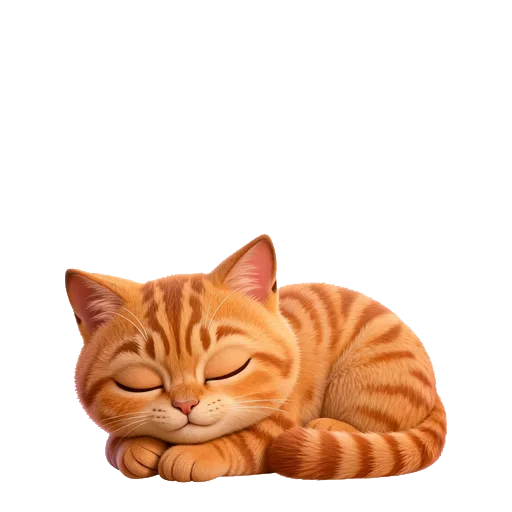
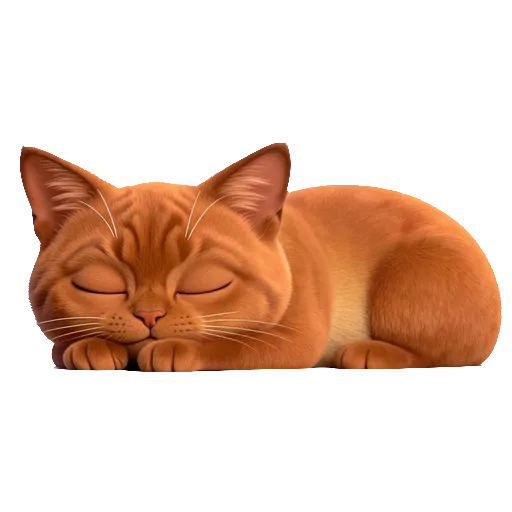
updated all cats artwork with superdesign now

diff --git a/app/ui/xenocats/cat-art.ts b/app/ui/xenocats/cat-art.ts
@@ -5,12 +5,13 @@
 //
 // The Canva plan, prompts and keying script live outside the repo, in the
 // Canva reference folder (cats/plan.json, cats/key.js); add a pose here once its
-// file is in public/xenocats/cats/. Hypno Rex's eyes-first entrance fades in
-// `.xenocat-eyes` before the body, so its artwork will need an eyes overlay.
+// file is in public/xenocats/cats/. A cat whose entrance stages its eyes before
+// its body (Hypno Rex, `.xenocat-eyes`) also needs `eyes`: an overlay of the awake
+// artwork holding only the eyes, drawn over it as their own layer.
 
 export type Pose = 'awake' | 'asleep';
 
-export const CAT_ART: Readonly<Record<string, Partial<Record<Pose, string>>>> = {
+export const CAT_ART: Readonly<Record<string, Partial<Record<Pose | 'eyes', string>>>> = {
   'void-tabby': {
     awake: '/xenocats/cats/void-tabby-awake.webp',
     asleep: '/xenocats/cats/void-tabby-asleep.webp',
@@ -79,10 +80,18 @@ export const CAT_ART: Readonly<Record<string, Partial<Record<Pose, string>>>> = 
     awake: '/xenocats/cats/smoke-bombay-awake.webp',
     asleep: '/xenocats/cats/smoke-bombay-asleep.webp',
   },
-  // Asleep still to come (and the eyes overlay above): until then the on-screen
-  // cat keeps its SVG (wholeSet); the gallery and the fight show this.
   'hypno-rex': {
     awake: '/xenocats/cats/hypno-rex-awake.webp',
+    asleep: '/xenocats/cats/hypno-rex-asleep.webp',
+    eyes: '/xenocats/cats/hypno-rex-eyes.webp',
+  },
+  'pinball-devon': {
+    awake: '/xenocats/cats/pinball-devon-awake.webp',
+    asleep: '/xenocats/cats/pinball-devon-asleep.webp',
+  },
+  'laser-ocicat': {
+    awake: '/xenocats/cats/laser-ocicat-awake.webp',
+    asleep: '/xenocats/cats/laser-ocicat-asleep.webp',
   },
 };
 
@@ -90,8 +99,13 @@ export const CAT_ART: Readonly<Record<string, Partial<Record<Pose, string>>>> = 
  * The artwork for a cat's pose, if there is any. With `wholeSet`, only when the
  * cat has artwork for both poses, so a cat never switches style between sleeping
  * and waking up (the on-screen cats do both; the gallery shows them awake only).
+ * `'eyes'` gives the cat's eyes overlay, if it has one.
  */
-export function catArt(id: string, pose: Pose, { wholeSet = false } = {}): string | undefined {
+export function catArt(
+  id: string,
+  pose: Pose | 'eyes',
+  { wholeSet = false } = {}
+): string | undefined {
   const art = CAT_ART[id];
   if (!art) return undefined;
   if (wholeSet && !(art.awake && art.asleep)) return undefined;

diff --git a/tests/unit/xenocats/cat-art.test.tsx b/tests/unit/xenocats/cat-art.test.tsx
@@ -24,8 +24,19 @@ describe('catArt', () => {
   it('gives a pose its artwork, and nothing for cats without any', () => {
     expect(catArt('void-tabby', 'awake')).toBe('/xenocats/cats/void-tabby-awake.webp');
     expect(catArt('void-tabby', 'asleep')).toBe('/xenocats/cats/void-tabby-asleep.webp');
-    const withoutArt = CAT_TYPES.find((type) => !CAT_ART[type.id])!;
-    expect(catArt(withoutArt.id, 'awake')).toBeUndefined();
+    expect(catArt('no-such-cat', 'awake')).toBeUndefined();
+  });
+
+  it('gives every cat on the roster artwork for both poses', () => {
+    for (const type of CAT_TYPES) {
+      expect(catArt(type.id, 'awake', { wholeSet: true }), type.id).toBeDefined();
+    }
+  });
+
+  it('gives an eyes-first cat an eyes overlay', () => {
+    for (const type of CAT_TYPES.filter((t) => t.entrance === 'eyes-first')) {
+      expect(catArt(type.id, 'eyes', { wholeSet: true }), type.id).toBeDefined();
+    }
   });
 
   it('with wholeSet, gives a cat with both poses its artwork', () => {
@@ -60,6 +71,30 @@ describe('CatSprite with artwork', () => {
       expect(img.getAttribute('src')).toBe('/cat.webp');
       expect(img.getAttribute('width')).toBe('64');
       expect(img.classList.contains('xenocat-art-glow')).toBe(pose === 'awake');
+      cleanup();
+    }
+  });
+
+  it('draws the eyes overlay over the body as its own layer, only while awake', () => {
+    for (const pose of ['awake', 'asleep'] as const) {
+      const { container } = render(
+        <CatSprite
+          palette={type.palette}
+          look={type.look}
+          pose={pose}
+          art="/cat.webp"
+          eyes="/eyes.webp"
+        />
+      );
+      const eyes = container.querySelector('.xenocat-body > img.xenocat-eyes');
+      if (pose === 'awake') {
+        expect(eyes!.getAttribute('src')).toBe('/eyes.webp');
+        // The body image stays outside `.xenocat-eyes`, so the staged entrance
+        // can fade it in separately.
+        expect(container.querySelector('.xenocat-body > img:not(.xenocat-eyes)')).not.toBeNull();
+      } else {
+        expect(eyes).toBeNull();
+      }
       cleanup();
     }
   });

diff --git a/app/ui/xenocats/cat-sprite.tsx b/app/ui/xenocats/cat-sprite.tsx
@@ -18,6 +18,7 @@ export function CatSprite({
   pose,
   size = 72,
   art,
+  eyes,
   still = false,
 }: {
   palette: CatPalette;
@@ -26,6 +27,11 @@ export function CatSprite({
   size?: number;
   /** Rendered artwork for this pose (cat-art.ts), drawn instead of the SVG. */
   art?: string;
+  /**
+   * An overlay of the awake artwork holding only its eyes (cat-art.ts), drawn over
+   * it as `.xenocat-eyes` so an entrance can stage the eyes apart from the body.
+   */
+  eyes?: string;
   /**
    * The glow held steady instead of pulsing: for a page of many sprites at once
    * (the /cats roster), where every pulse would be redrawn on every frame.
@@ -36,7 +42,7 @@ export function CatSprite({
     // `.xenocat-body` keeps the breathing and staged-entrance hooks; awake, the
     // cat's glow colour pulses around it in place of the SVG's glowing parts.
     return (
-      <span className="xenocat-body block" style={{ width: size, height: size }}>
+      <span className="xenocat-body relative block" style={{ width: size, height: size }}>
         {/* eslint-disable-next-line @next/next/no-img-element -- a sprite drawn at a fixed small size, not a content image */}
         <img
           src={art}
@@ -49,6 +55,17 @@ export function CatSprite({
           }
           style={{ '--xenocat-glow': palette.glow } as React.CSSProperties}
         />
+        {eyes && pose === 'awake' && (
+          // eslint-disable-next-line @next/next/no-img-element -- see above
+          <img
+            src={eyes}
+            alt=""
+            width={size}
+            height={size}
+            draggable={false}
+            className="xenocat-eyes pointer-events-none absolute inset-0"
+          />
+        )}
       </span>
     );
   }

diff --git a/tests/e2e/cats.spec.ts b/tests/e2e/cats.spec.ts
@@ -423,6 +423,22 @@ test('Hypno Rex spirals the cursor in to the middle of the screen', async ({ pag
     .toBeLessThan(Math.max(startDistance * 0.3, 20));
 });
 
+test('Hypno Rex arrives in its artwork, with its eyes as a layer of their own', async ({
+  page,
+}) => {
+  await openCats(page);
+  await summon(page, 'hypno-rex');
+  const cat = page.locator('[data-cat-type="hypno-rex"]');
+  await expect(cat.locator('img:not(.xenocat-eyes)')).toHaveAttribute(
+    'src',
+    '/xenocats/cats/hypno-rex-awake.webp'
+  );
+  await expect(cat.locator('img.xenocat-eyes')).toHaveAttribute(
+    'src',
+    '/xenocats/cats/hypno-rex-eyes.webp'
+  );
+});
+
 test('Pinball Devon sends the cursor bouncing around the screen', async ({ page }) => {
   await openCats(page);
   const pointer = await summon(page, 'pinball-devon');

diff --git a/app/ui/xenocats/cat-layer.tsx b/app/ui/xenocats/cat-layer.tsx
@@ -379,6 +379,7 @@ function CatView({
           pose={asleep ? 'asleep' : 'awake'}
           size={size}
           art={catArt(type.id, asleep ? 'asleep' : 'awake', { wholeSet: true })}
+          eyes={catArt(type.id, 'eyes', { wholeSet: true })}
         />
       </div>
       {asleep && (

diff --git a/docs/ai/night-2026-10-07/plan.md b/docs/ai/night-2026-10-07/plan.md
@@ -49,8 +49,8 @@ A task like any other (`night-2026-10-07-c<N>-checkpoint`, through the whole of
    without it? Is every test still relevant: no test of removed behaviour, no
    duplicate, no test that cannot fail? Add what is missing. A test that no
    longer tests anything relevant may be rewritten or removed, with the reason
-   in `decisions.md`. *Explicitly lifts §3's "deleting a file you did not
-   create" for test files under `tests/` only.*
+   in `decisions.md`. _Explicitly lifts §3's "deleting a file you did not
+   create" for test files under `tests/` only._
 2. **Quality and security.** Dispatch the `reviewer` on the range since the last
    checkpoint, with `.claude/rules/security-review.md` in scope. Fix every
    finding within the checkpoint, or record why not.
@@ -103,7 +103,7 @@ A task like any other (`night-2026-10-07-c<N>-checkpoint`, through the whole of
    storage and the autoplay rule stay as they are. Where a file fails to load,
    that sound falls back to its current synthesized version.
 
-   *Explicitly lifts §3's "contacting any external service" for task 3 only,*
+   _Explicitly lifts §3's "contacting any external service" for task 3 only,_
    limited to this:
    - HTTPS GET requests to `commons.wikimedia.org` (its search and file-info
      API) and `upload.wikimedia.org` (the files). No other host.
@@ -200,9 +200,9 @@ arena. **Attacks happen automatically: positioning is the skill.** Cats pour in
 from every side; sent-home cats drop experience; experience buys level-ups;
 level-ups offer upgrades; weapons evolve into absurd late-game machines; the run
 ends at the time goal or when the hero gives up. The escalation is the point:
-*a few cats → a lot of cats → hundreds → the entire screen is cats → the hero
+_a few cats → a lot of cats → hundreds → the entire screen is cats → the hero
 has become a god and the cats are experiencing an unprecedented cosmic
-catastrophe.*
+catastrophe._
 
 **Rules for tasks 6–11** (and for task 12's game items):
 
@@ -214,8 +214,8 @@ catastrophe.*
   game; the game never winks at how ridiculous it is. Name what the plan does
   not (the hero's own health, the currency, the final cat) in that voice, and
   record the names in `decisions.md`.
-- **Art.** *Explicitly lifts the design decision "no new artwork" for tasks
-  6–11 and task 12's game items, for the game's own art only:* the run draws
+- **Art.** _Explicitly lifts the design decision "no new artwork" for tasks
+  6–11 and task 12's game items, for the game's own art only:_ the run draws
   new SVG for the hero, the new enemy varieties, weapons, projectiles,
   experience gems, chests and pickups, in the site's palette
   (`tailwind.config.ts`) and in the style of the existing cats (which it may
@@ -223,8 +223,8 @@ catastrophe.*
   recognizably cats. The existing 20 cat types are reused as enemies with their
   art unchanged. List every new drawing in the report as **drawn by the run,
   not seen**, for a later Superdesign pass.
-- **The cat limit.** *Explicitly lifts "never more than 5 cats on screen" and
-  "one effect at a time on the page" inside the Survival game only.* Spawning
+- **The cat limit.** _Explicitly lifts "never more than 5 cats on screen" and
+  "one effect at a time on the page" inside the Survival game only._ Spawning
   is uncapped and escalates toward thousands; the game measures frame time and
   **stops adding cats while the frame rate is below a floor set in the
   config**, so a weak machine gets fewer cats, not a slideshow. Every other
@@ -264,16 +264,16 @@ catastrophe.*
    movement pad).
    - `/cats/survival` becomes the new game. Its start screen has Start, the
      best time survived, and the controls. The old wave game is retired.
-     *Explicitly lifts §3's "deleting a file you did not create" for task 6,
+     _Explicitly lifts §3's "deleting a file you did not create" for task 6,
      for the old Survival's modules and their tests that nothing uses any more
-     after this task (e.g. `gun.ts`, the wave logic in `survival.ts`).*
+     after this task (e.g. `gun.ts`, the wave logic in `survival.ts`)._
      Whatever Taming (task 5) still uses stays.
    - An **endless arena**: the camera follows the hero; a subtle tiled floor in
      the site's dark colours so movement shows; cats spawn just off-screen in
      every direction.
    - **The hero** (new SVG): walks as above. Has a health bar; **contact with a
      cat drains it** (each variety its own amount); brief invulnerability after
-     a hit. **Rare effects**: a small share of cats (config) are *elites* of
+     a hit. **Rare effects**: a small share of cats (config) are _elites_ of
      the 20 xenocat types and also apply their xenocat effect to the hero on
      contact (Cryo freezes him briefly, Gravi slows him, Mirror reverses his
      controls…), one effect at a time on the hero.
@@ -403,10 +403,10 @@ catastrophe.*
 
 12. **Exploration, until the goal time.** When tasks 1–11 and the checkpoints
     are done, parked or abandoned, keep improving the project **until `D`**.
-    *Explicitly lifts §6's "do not invent work" and "the plan's tasks are done
+    _Explicitly lifts §6's "do not invent work" and "the plan's tasks are done
     before `D`. Write the report and stop", and §1.0's "work no task names is
     not built" and "Done. When the last task ends before `D`, write the report
-    and stop", for this task only.*
+    and stop", for this task only._
 
     **This task does not run out.** Last run's exploration produced one item
     and then stopped 70 minutes before the goal, reporting that "the plan's
@@ -426,8 +426,7 @@ catastrophe.*
     How items work:
     - Each item is its own task (`night-2026-10-07-t12-<n>-<slug>`) through
       the whole of §2, merged like planned work.
-    - Before starting an item, append to `progress.md` what it is, its kind and
-      why it is worth doing.
+    - Before starting an item, append to `progress.md` what it is and its kind.
     - Rotate between five kinds: **the Survival game** (new enemy cats, each
       with run-drawn SVG and a behaviour that makes it play differently, not
       just another skin; new weapons, passives and evolution pairs; balance

diff --git a/docs/ai/cat-artwork-2026-10-07/progress.md b/docs/ai/cat-artwork-2026-10-07/progress.md
@@ -1,0 +1,67 @@
+# Cat artwork, 2026-10-07
+
+Supervised session, finishing the leftovers of
+[`../cat-artwork-2026-10-06/progress.md`](../cat-artwork-2026-10-06/progress.md).
+Superdesign project **"Xenocat cats"** (`b121e4aa-a80f-464b-99ef-b581b0582d0c`),
+`bytedance/seedream-5.0-lite`, 6 credits an image. The credits had reset to 100;
+11 images were generated (66 credits), **34 are left**.
+
+## Done
+
+**All 20 cats now have artwork for both poses**, so every on-screen cat uses it.
+
+| Cat                          | What                                       | Generation id → canvas node                           |
+| ---------------------------- | ------------------------------------------ | ----------------------------------------------------- |
+| Gravity Manx awake           | regenerated: plain coat, no visible tail   | `d0d50f0f` → (no node id returned)                    |
+| Gravity Manx asleep          | regenerated: no tail, plain coat (2nd try) | `9bebd167` → `71529eb4-f080-4e7e-b489-38d4e419e037`   |
+| Decoy Burmese asleep         | regenerated: solid sable (2nd try)         | `3073dac0` → `0fc4365c-1845-4d38-8f98-00980523b7b9`   |
+| Smoke Bombay awake           | regenerated without the opaque smoke       | `a7bf08aa` → `da122306-342c-42f9-bf9d-673d49d06db0`   |
+| Hypno Rex asleep             | new                                        | `72ff1294` → `180e1f4d-90e0-4723-9a89-9d17132cb138`   |
+| Pinball Devon awake / asleep | new                                        | `96557ca0` → `fc24f15f-…` / `8df8eacf` → `5d94c479-…` |
+| Laser Ocicat awake / asleep  | new                                        | `b53b1a41` → `db9fe5ab-…` / `309e5350` → `8713e9a7-…` |
+
+Discarded (spent, not used): Decoy Burmese asleep 1st try (orange collar patch,
+tail rings), Gravity Manx asleep 1st try (still had a wrapped tail).
+
+**Hypno Rex's eyes overlay.** `hypno-rex-eyes.webp` is the awake art cut down to
+its two eyes (`eyes.cjs`). `CAT_ART['hypno-rex'].eyes` maps it, `CatSprite` draws
+it over the body image as `img.xenocat-eyes` while awake, and the existing
+eyes-first / eyes-last CSS stages it apart from the body. Hypno Rex awake was
+also re-keyed with `--hole` to clear a white patch between tail and body.
+
+**Keying** (`key.cjs` here, a copy of the 10-06 one plus two options):
+`--erode N` shrinks the opaque edge (Laser Ocicat awake `--erode 3` and asleep
+`--erode 2`: the model drew a thin olive outline; Gravity Manx asleep
+`--erode 2`: a 1 px grey floor line), `--hole x,y` clears an enclosed white area.
+
+## What worked in the prompts
+
+- **Plain coats:** use a plain-coated reference. Style: Decoy Burmese awake
+  (`22e731be-2bff-4a10-bfc5-af23cb40d2c9`) instead of Magneto Bengal; asleep
+  pose: Smoke Bombay asleep (`5660641a-cf6a-4e9b-b3e5-bcefb06c25b3`) instead of
+  Void Tabby. Spell out "no stripes, no tail rings, no lighter or orange patches".
+- **Manx asleep:** only a pose reference with a tail ever produced a tail. What
+  worked was the awake Manx as the _only_ reference, the pose described in words
+  ("a compact round loaf … its round rump showing … no tail anywhere").
+- A generated image can be a reference by its `outputUrl` when the generation
+  returned no canvas node id.
+
+## Verified
+
+- `npx vitest run tests/unit/xenocats`: 349 passed (new: every cat has both
+  poses, eyes-first cats have an overlay, the overlay renders only awake).
+- `npx playwright test tests/e2e/cats.spec.ts`: 31 passed (new: Hypno Rex arrives
+  with its art and eyes layer).
+- `npm run lint` (no warnings), `next typegen && tsc --noEmit`, prettier on the
+  changed files.
+- **Looked at** `/cats` in `next dev` through Playwright screenshots: the five
+  changed gallery cards, Hypno Rex 400 ms into its entrance (only the eyes
+  showing) and after it, and the asleep summons of Hypno Rex, Pinball Devon,
+  Laser Ocicat and Gravity Manx. Not checked at phone width.
+
+## Left
+
+- Laser Ocicat asleep came out striped rather than spotted, and Pinball Devon
+  asleep has smaller ears than awake. Both read as the same cat; regenerate only
+  if they bother someone (6 credits each).
+- Gravity Manx is a deeper orange than its palette's golden ochre (`#a16207`).
